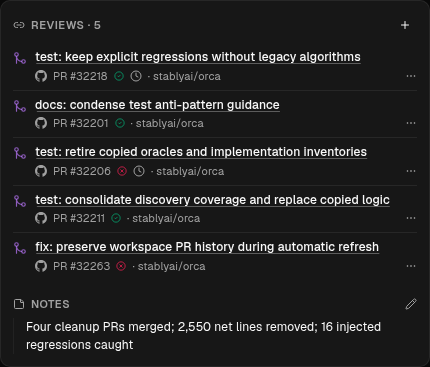
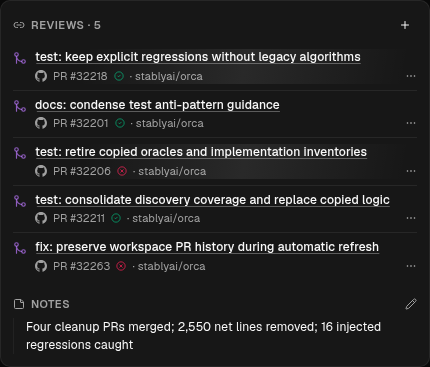
fix: shimmer stale reference rows without a clock

Changed region(s): [[0.3023, 0.1798, 0.514, 0.2398], [0.3023, 0.4496, 0.514, 0.4796]]

diff --git a/src/renderer/src/components/sidebar/WorktreeCardReferenceRow.tsx b/src/renderer/src/components/sidebar/WorktreeCardReferenceRow.tsx
@@ -1,5 +1,5 @@
 import type { MouseEvent, ReactNode } from 'react'
-import { CircleDot, Clock, GitMerge, GitPullRequest } from 'lucide-react'
+import { CircleDot, GitMerge, GitPullRequest } from 'lucide-react'
 import { Tooltip, TooltipContent, TooltipTrigger } from '@/components/ui/tooltip'
 import { GitHubIcon } from '@/components/icons/GitHubIcon'
 import { FilePathCursorTooltip } from '@/components/file-path-cursor-tooltip'
@@ -44,11 +44,16 @@ export function WorktreeCardReferenceRow({
   onManage?: (event: MouseEvent) => void
   actions?: ReactNode
 }): React.JSX.Element {
-  const staleLabel = stale
-    ? translate('workspace.links.lastKnownStatus', 'Last known status')
-    : null
   return (
-    <div className="flex min-w-0 items-start gap-2">
+    <div
+      className="workspace-reference-row relative flex min-w-0 items-start gap-2"
+      data-stale={stale || undefined}
+    >
+      {stale ? (
+        <span className="sr-only">
+          {translate('workspace.links.lastKnownStatus', 'Last known status')}
+        </span>
+      ) : null}
       <div className="mt-0.5 flex w-3.5 shrink-0 items-center">
         {review ? (
           <Tooltip>
@@ -120,22 +125,6 @@ export function WorktreeCardReferenceRow({
           ) : null}
           <span className="shrink-0">{label}</span>
           {review?.status ? <ReviewChecksIndicator status={review.status} /> : null}
-          {staleLabel ? (
-            <Tooltip>
-              <TooltipTrigger asChild>
-                <span
-                  tabIndex={0}
-                  aria-label={staleLabel}
-                  className="inline-flex shrink-0 rounded-sm outline-none focus-visible:ring-2 focus-visible:ring-ring"
-                >
-                  <Clock className="size-3" />
-                </span>
-              </TooltipTrigger>
-              <TooltipContent side="top" sideOffset={4}>
-                {staleLabel}
-              </TooltipContent>
-            </Tooltip>
-          ) : null}
           <span className="min-w-0 flex-1 truncate">
             {provider === 'GitHub' ? null : `· ${provider}`}
             {source ? ` · ${source}` : ''}

diff --git a/src/renderer/src/assets/main.css b/src/renderer/src/assets/main.css
@@ -3410,6 +3410,37 @@ html.native-shell .app-layout {
   letter-spacing: -0.02em;
 }
 
+.workspace-reference-row[data-stale]::after {
+  content: '';
+  position: absolute;
+  inset: 0;
+  pointer-events: none;
+  border-radius: inherit;
+  background: color-mix(in srgb, var(--foreground) 4%, transparent);
+}
+
+@keyframes workspace-reference-shimmer {
+  from {
+    background-position: 200% 0;
+  }
+  to {
+    background-position: -200% 0;
+  }
+}
+
+@media (prefers-reduced-motion: no-preference) {
+  .workspace-reference-row[data-stale]::after {
+    background: linear-gradient(
+      100deg,
+      transparent 30%,
+      color-mix(in srgb, var(--foreground) 8%, transparent) 50%,
+      transparent 70%
+    );
+    background-size: 200% 100%;
+    animation: workspace-reference-shimmer 2.4s ease-in-out infinite;
+  }
+}
+
 .workspace-reference-title {
   overflow: hidden;
   white-space: nowrap;

diff --git a/docs/bug-reproductions/inline-reference-status/README.md b/docs/bug-reproductions/inline-reference-status/README.md
@@ -2,11 +2,14 @@
 
 “Last known status” added a third line to stale linked references. When a refresh
 cleared it, each affected row shrank by 20px and moved the content below it.
-The label now lives in a keyboard-accessible tooltip on an inline clock icon.
+Stale rows now use a subtle shimmer without adding an icon or a visible label.
+Screen readers retain the status label, and reduced motion uses a still tint.
 
-| Before                                                    | After                                               |
-| --------------------------------------------------------- | --------------------------------------------------- |
-| ![Stale references with an extra status line](before.png) | ![Stale references with an inline clock](after.png) |
+| Before                                                    | After                                             |
+| --------------------------------------------------------- | ------------------------------------------------- |
+| ![Stale references with an extra status line](before.png) | ![Stale references with a row shimmer](after.png) |
+
+![Animated stale-row shimmer](after.gif)
 
 Captured with Playwright CDP from a hidden Electron renderer on an isolated Xvfb
 display, rendering the actual `WorktreeCardLinkedItemsSection` and application CSS
@@ -16,4 +19,5 @@ screenshots of a signed-in app session.
 Verified in light and dark themes at 320px and 430px widths: switching those two
 references from stale to fresh reduced the original card from 407px to 367px.
 After the change, both states measure 367px, with identical row positions and no
-horizontal overflow. Keyboard focus on the clock reveals “Last known status”.
+horizontal overflow. Only stale rows animate; clearing stale status removes the
+animation. Reduced motion disables movement while retaining a subtle highlight.
